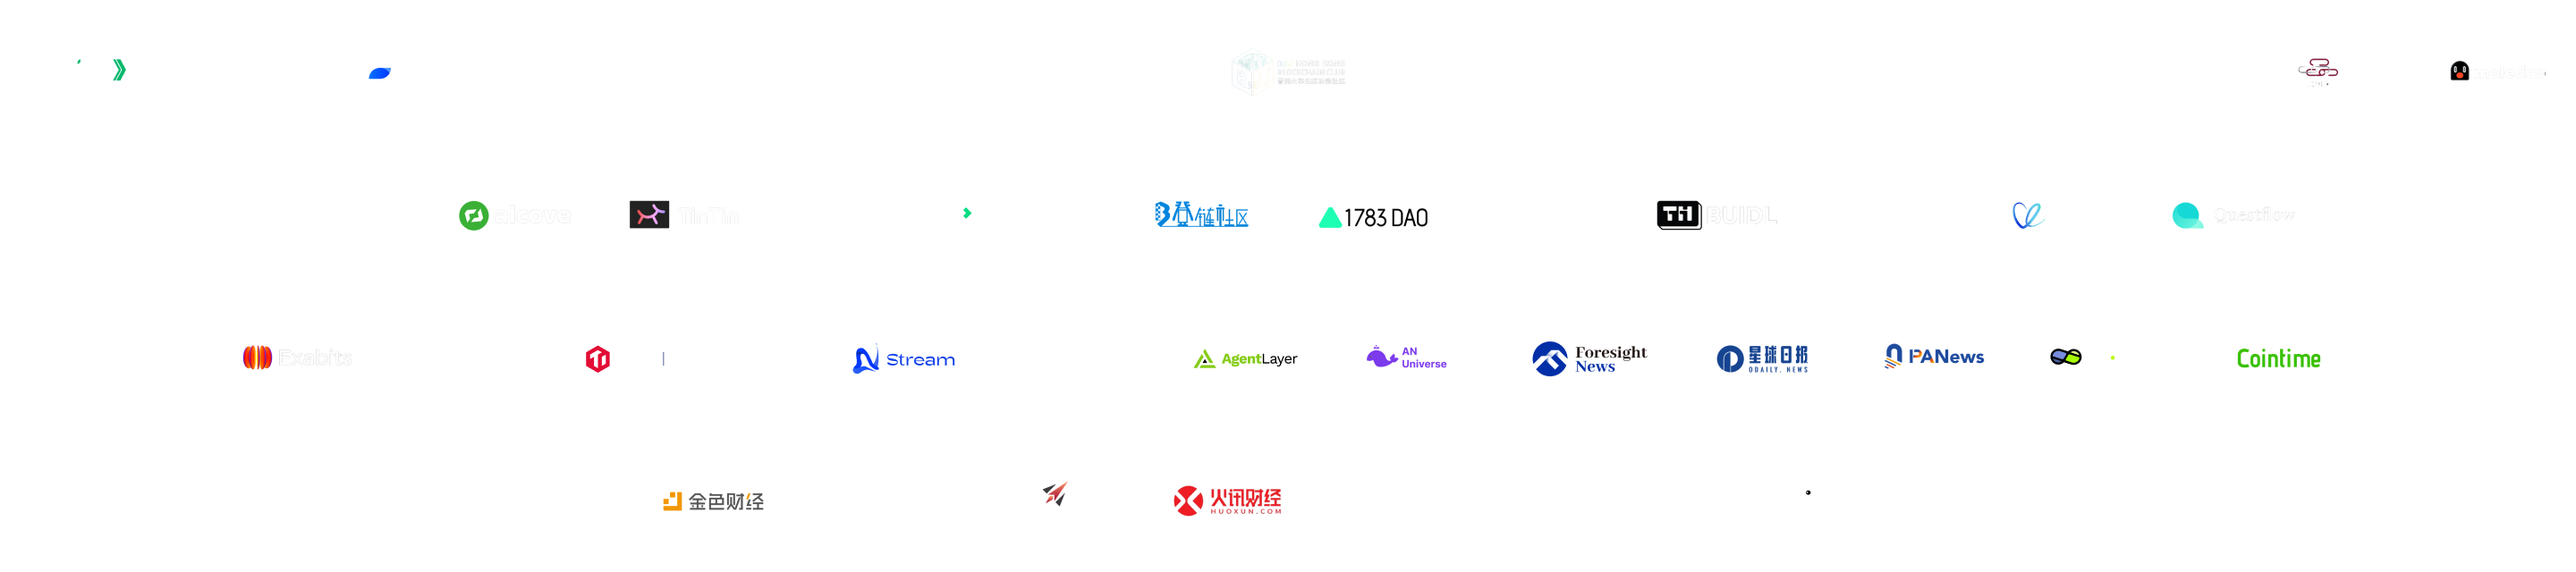
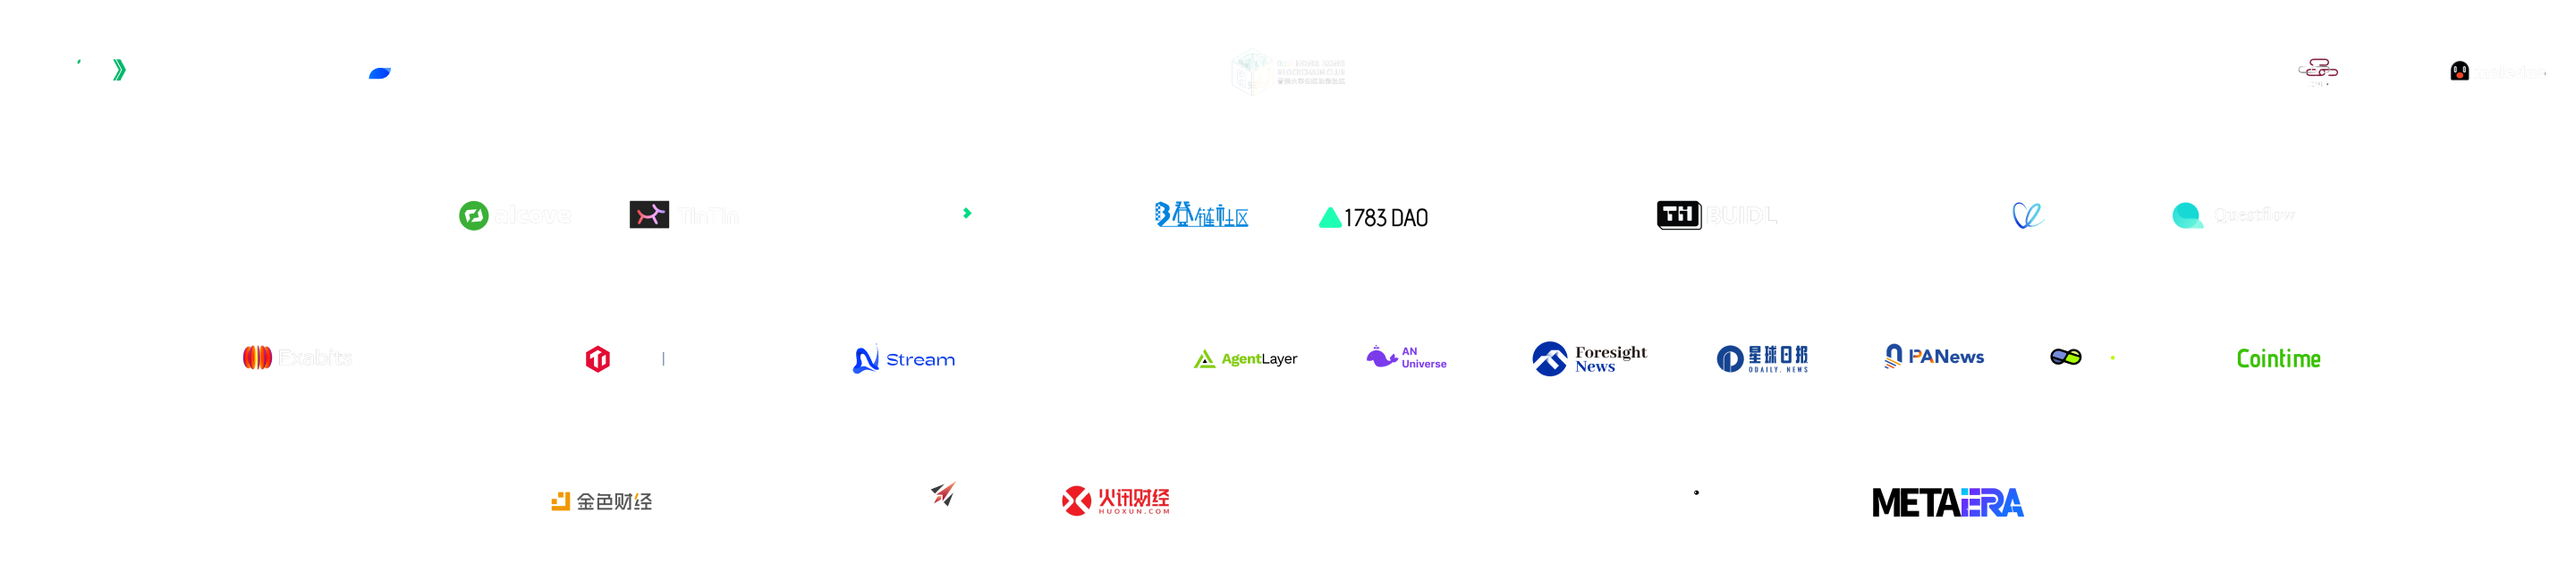
修改排序

diff --git a/src/app/page.tsx b/src/app/page.tsx
@@ -11,7 +11,7 @@ import MobileMenu from "@/component/MobileMenu";
 import { useRouter } from "next/navigation";
 
 export default function Home() {
-  const [visibleCount, setVisibleCount] = useState(25);
+  const [visibleCount, setVisibleCount] = useState(100);
   const router = useRouter();
 
   const [openIndex, setOpenIndex] = useState<number | null>(null);
@@ -61,107 +61,81 @@ export default function Home() {
     },
   ];
 
-  // 数据数组
-  // const speakers = [
-  //   // { id: 1, name: "Allan", company: "Partner of Blockchain For Good Alliance", img: "/speakers/17.png", icon: "17" },
-  //   { id: 10, name: "Guy Wuollet", company: "Investment Partner at a16z crypto", img: "/speakers/6.png", icon: "6" },
-  //   { id: 1, name: "Anna Bertha", company: "Investor at DCG", img: "/speakers/3.png", icon: "1" },
-  //   { id: 11, name: "Jiahao Sun", company: "Founder and CEO of FLock.io", img: "/speakers/8.png", icon: "8" },
-  //   {
-  //     id: 6,
-  //     name: "David Attermann",
-  //     company: "Head of Web3 Investments at M31 Capital",
-  //     img: "/speakers/13.png",
-  //     icon: "12",
-  //   },
-  //   { id: 4, name: "Chris Zhu", company: "Co-founder of Sonic / Mirror World", img: "/speakers/9.png", icon: "3" },
-  //   {
-  //     id: 5,
-  //     name: "Christian Ondaatje",
-  //     company: "Platform Engineer of Hyperbolicd",
-  //     img: "/speakers/5.png",
-  //     icon: "4",
-  //   },
-  //   { id: 9, name: "Greg Osuri", company: "Founder of Akash", img: "/speakers/1.png", icon: "7" },
-  //   { id: 12, name: "Mads Pedersen", company: "Partner at Figment Capital", img: "/speakers/19.png", icon: "19" },
-  //   { id: 13, name: "Naveen Durvasula", company: "Core Member of Ritual", img: "/speakers/2.png", icon: "9" },
-  //   { id: 3, name: "Ben Fielding", company: "Co-founder of Gensyn", img: "/speakers/4.png", icon: "2" },
-  //   { id: 2, name: "Baek Kim", company: "Partner at Hashed", img: "/speakers/16.png", icon: "16" },
-  //   { id: 7, name: "Dmitriy Berenzon", company: "Partner at Archetype", img: "/speakers/18.png", icon: "18" },
-  //   { id: 8, name: "Evan Feng", company: "Partner at CoinFund", img: "/speakers/12.png", icon: "5" },
-  //   { id: 14, name: "Nihal Maunder", company: "Junior Partner at Pantera", img: "/speakers/14.png", icon: "14" },
-  //   { id: 16, name: "Tom Schmidt", company: "Partner at Dragonfly", img: "/speakers/7.png", icon: "13" },
-  //   { id: 15, name: "Sean Ren", company: "Cofounder of Sahara AI", img: "/speakers/15.png", icon: "15" },
-  // ];
 
   const speakers = [
-    { id: 1, name: "Kuleen Nimkar", company: "Growth at Solana Foundation", img: "/speakers/20.png", icon: "11" },
-    { id: 2, name: "Muneeb Ali", company: "Co-Founder of Stacks", img: "/speakers/21.png", icon: "21" },
+    { id: 1, name: "Jarrod Barnes", company: "Head of Founder Success at NEAR Foundation", img: "/speakers/27.png", icon: "27" },
+    { id: 2, name: "Kuleen Nimkar", company: "Growth at Solana Foundation", img: "/speakers/20.png", icon: "11" },
+    { id: 3, name: "Muneeb Ali", company: "Co-Founder of Stacks", img: "/speakers/21.png", icon: "21" },
     {
-      id: 3,
+      id: 4,
       name: "Sam Williams",
       company: "CEO of Forward Research, Founder of Arweave and AO",
       img: "/speakers/22.png",
       icon: "22",
     },
-    { id: 4, name: "Anna Bertha", company: "Investor at DCG", img: "/speakers/3.png", icon: "1" },
-    { id: 5, name: "Baek Kim", company: "Partner at Hashed", img: "/speakers/16.png", icon: "16" },
+    { id: 5, name: "Anna Bertha", company: "Investor at DCG", img: "/speakers/3.png", icon: "1" },
+    { id: 6, name: "Baek Kim", company: "Partner at Hashed", img: "/speakers/16.png", icon: "16" },
     {
-      id: 6,
+      id: 7,
       name: "David Attermann",
       company: "Head of Web3 Investments at M31 Capital",
       img: "/speakers/13.png",
       icon: "12",
     },
-    { id: 7, name: "Dmitriy Berenzon", company: "Partner at Archetype", img: "/speakers/18.png", icon: "18" },
-    { id: 8, name: "Evan Feng", company: "Partner at CoinFund", img: "/speakers/12.png", icon: "5" },
+    { id: 8, name: "Dmitriy Berenzon", company: "Partner at Archetype", img: "/speakers/18.png", icon: "18" },
+    { id: 9, name: "Evan Feng", company: "Partner at CoinFund", img: "/speakers/12.png", icon: "5" },
     {
-      id: 9,
+      id: 10,
       name: "Greg Scanlon",
       company: "Managing Principal at Franklin Templeton Blockchain Fund",
       img: "/speakers/23.png",
       icon: "23",
     },
 
-    { id: 10, name: "Guy Wuollet", company: "Investment Partner at a16z crypto", img: "/speakers/6.png", icon: "6" },
-    { id: 11, name: "Mads Pedersen", company: "Partner at Figment Capital", img: "/speakers/19.png", icon: "19" },
-    { id: 12, name: "Nihal Maunder", company: "Junior Partner at Pantera", img: "/speakers/14.png", icon: "14" },
-    { id: 13, name: "Tom Schmidt", company: "Partner at Dragonfly", img: "/speakers/7.png", icon: "13" },
-    { id: 14, name: "Wei Dai", company: "Research Partner at 1kx", img: "/speakers/24.png", icon: "24" },
+    { id: 11, name: "Guy Wuollet", company: "Investment Partner at a16z crypto", img: "/speakers/6.png", icon: "6" },
+    { id: 12, name: "Jiani Chen", company: "Partner at Protagonist VC", img: "/speakers/28.png", icon: "28" },
+    
+    { id: 13, name: "Mads Pedersen", company: "Partner at Figment Capital", img: "/speakers/19.png", icon: "19" },
+    
+    { id: 14, name: "Nihal Maunder", company: "Junior Partner at Pantera", img: "/speakers/14.png", icon: "14" },
+    { id: 15, name: "Tom Schmidt", company: "Partner at Dragonfly", img: "/speakers/7.png", icon: "13" },
+    { id: 16, name: "Wei Dai", company: "Research Partner at 1kx", img: "/speakers/24.png", icon: "24" },
     {
-      id: 15,
+      id: 17,
       name: "Alexander Lerangis",
       company: "Head of Business Development at Arkham",
       img: "/speakers/25.png",
       icon: "25",
     },
     // { id: 15, name: "Allan", company: "Partner at Blockchain For Good Alliance", img: "/speakers/17.png", icon: "17" },
-    { id: 16, name: "Allan", company: "Partner at Blockchain For Good Alliance", img: "/speakers/17.png", icon: "17" },
-    { id: 17, name: "Ben Fielding", company: "Co-founder of Gensyn", img: "/speakers/4.png", icon: "2" },
+    { id: 18, name: "Allan", company: "Partner at Blockchain For Good Alliance", img: "/speakers/17.png", icon: "17" },
+    { id: 19, name: "Ben Fielding", company: "Co-founder of Gensyn", img: "/speakers/4.png", icon: "2" },
+    { id: 20, name: "Calanthia Mei", company: "Co-founder of Masa", img: "/speakers/29.png", icon: "29" },
 
    
     {
-      id: 18,
+      id: 21,
       name: "Christian Ondaatje",
       company: "Founding Platform Engineer of Hyperbolic",
       img: "/speakers/5.png",
       icon: "4",
     },
-    { id: 19, name: "Greg Osuri", company: "Founder of Akash", img: "/speakers/1.png", icon: "7" },
+    { id: 22, name: "Greg Osuri", company: "Founder of Akash", img: "/speakers/1.png", icon: "7" },
 
-    { id: 20, name: "Jiahao Sun", company: "Founder and CEO of FLock.io", img: "/speakers/8.png", icon: "8" },
+    { id: 23, name: "Jiahao Sun", company: "Founder and CEO of FLock.io", img: "/speakers/8.png", icon: "8" },
 
-    { id: 21, name: "Naveen Durvasula", company: "Core Member of Ritual", img: "/speakers/2.png", icon: "9" },
+    { id: 24, name: "Naveen Durvasula", company: "Core Member of Ritual", img: "/speakers/2.png", icon: "9" },
     {
-      id: 22,
+      id: 25,
       name: "Nick Emmons",
       company: "Co-founder and CEO of Allora Labs",
       img: "/speakers/26.png",
       icon: "26",
     },
-    { id: 23, name: "Sean Ren", company: "Cofounder of Sahara AI", img: "/speakers/15.png", icon: "15" },
+    { id: 26, name: "Rahul Arulkumaran", company: "AI/ML Engineer Fellow at Foundry", img: "/speakers/30.png", icon: "30" },
     
-    // { id: 4, name: "Chris Zhu", company: "Co-founder of Sonic / Mirror World", img: "/speakers/9.png", icon: "3" },
+    { id: 27, name: "Sean Ren", company: "Co-founder of Sahara AI", img: "/speakers/15.png", icon: "15" },
+    
   ];
 
   // 点击按钮后展示更多数据
@@ -401,6 +375,13 @@ export default function Home() {
 
             <Image
               src="/banner/sponsors/image8.svg"
+              width={136}
+              height={54}
+              alt="icon"
+              className="w-[100px] md:w-[136px]"
+            />
+            <Image
+              src="/banner/sponsors/image13.svg"
               width={136}
               height={54}
               alt="icon"

diff --git a/src/component/LogoList1.tsx b/src/component/LogoList1.tsx
@@ -75,6 +75,15 @@ const LogoList1 = () => {
       </Col>
       <Col span={8}>
         <Image
+          src="/banner/sponsors/image13.svg"
+          width={136}
+          height={54}
+          alt="icon"
+          className="w-[100px] md:w-[136px]"
+        />
+      </Col>
+      <Col span={8}>
+        <Image
           src="/banner/sponsors/image11.svg"
           width={136}
           height={48}
